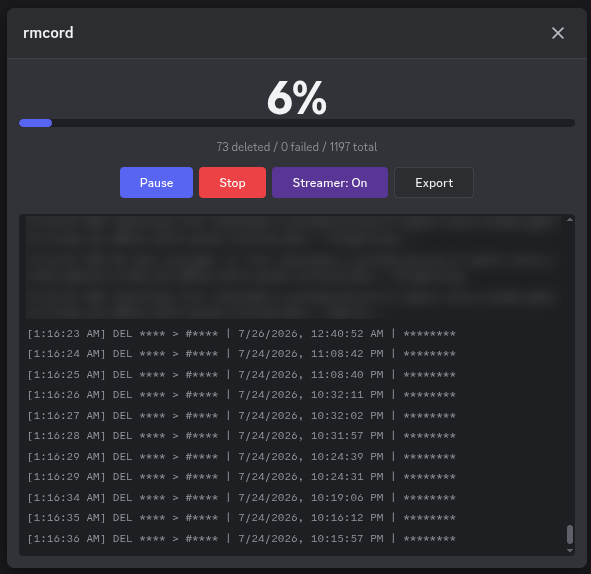
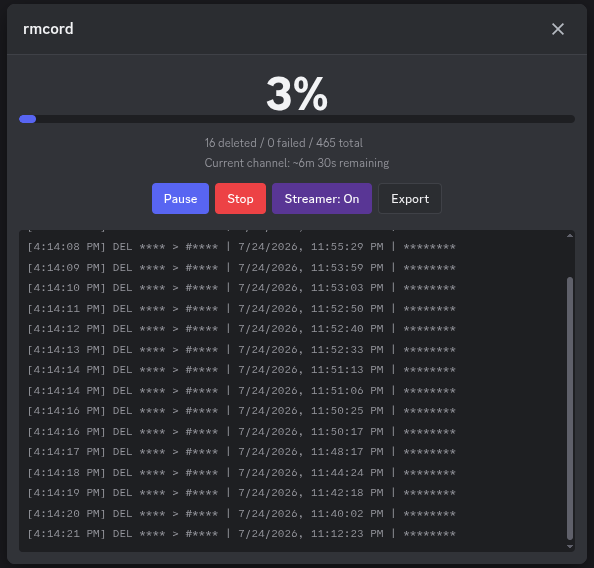
fix: guild names showing up in logs even if streamer mode is enabled

diff --git a/utils.tsx b/utils.tsx
@@ -108,8 +108,8 @@ function formatEta(ms: number): string {
     return `${hours}h ${mins}m`;
 }
 
-function infoLog(ctrl: DeletionController, msg: string) {
-    const entry: LogEntry = { timestamp: now(), status: "info", content: msg };
+function infoLog(ctrl: DeletionController, msg: string, location?: Pick<LogEntry, "guildName" | "guildId" | "channelName" | "channelId" | "username" | "userId">) {
+    const entry: LogEntry = { timestamp: now(), status: "info", content: msg, ...location };
     ctrl.updateProgress(p => ({ ...p, logs: [...p.logs, entry] }));
 }
 
@@ -264,8 +264,22 @@ async function deleteChannelMessages(
     let channelDeleted = 0;
     const channelStart = Date.now();
 
+    const channel = ChannelStore.getChannel(channelId);
+    const guild = guildId ? GuildStore.getGuild(guildId) : null;
+    const isDM = !guildId;
+    const loc: Pick<LogEntry, "guildName" | "guildId" | "channelName" | "channelId" | "username" | "userId"> = {
+        channelId,
+        ...(isDM && channel?.recipients?.[0] ? (() => {
+            const recipientId = channel.recipients[0];
+            const user = UserStore.getUser(recipientId);
+            return { username: user?.globalName || user?.username || recipientId, userId: recipientId };
+        })() : {}),
+        ...(guild ? { guildName: guild.name, guildId: guild.id } : {}),
+        ...(channel?.name ? { channelName: channel.name } : {}),
+    };
+
     ctrl.updateProgress(p => ({ ...p, currentChannel: channelLabel, channelEta: null }));
-    infoLog(ctrl, `Searching ${channelLabel}...`);
+    infoLog(ctrl, `Searching ${channelLabel}...`, loc);
 
     while (!ctrl.isStopped()) {
         await waitWhilePaused(ctrl);
@@ -292,7 +306,7 @@ async function deleteChannelMessages(
                 continue;
             }
             logger.error("Search error", { status, err });
-            infoLog(ctrl, `Search error (${status ?? "unknown"}), skipping ${channelLabel}.`);
+            infoLog(ctrl, `Search error (${status ?? "unknown"}), skipping ${channelLabel}.`, loc);
             break;
         }
 
@@ -303,7 +317,7 @@ async function deleteChannelMessages(
                 await sleep(delays.searchDelay);
                 continue;
             }
-            infoLog(ctrl, `No more messages in ${channelLabel}.`);
+            infoLog(ctrl, `No more messages in ${channelLabel}.`, loc);
             break;
         }
 

diff --git a/ui/ProgressView.tsx b/ui/ProgressView.tsx
@@ -61,7 +61,19 @@ function formatContent(content: string | undefined, streamer: boolean) {
 }
 
 function formatLogLine(entry: LogEntry, streamer: boolean) {
-    if (entry.status === "info") return `[${entry.timestamp}] ${entry.content || ""}`;
+    if (entry.status === "info") {
+        if (!streamer) return `[${entry.timestamp}] ${entry.content || ""}`;
+        const hasLocation = entry.guildName || entry.channelName || entry.username;
+        if (!hasLocation) return `[${entry.timestamp}] ${entry.content || ""}`;
+        const loc = formatLocation(entry, true);
+        const redacted = (entry.content || "").replace(
+            entry.username
+                ? `DM > ${entry.username}`
+                : `${entry.guildName || "???"} > #${entry.channelName || "???"}`,
+            loc
+        );
+        return `[${entry.timestamp}] ${redacted}`;
+    }
 
     const loc = formatLocation(entry, streamer);
     const content = formatContent(entry.content, streamer);
